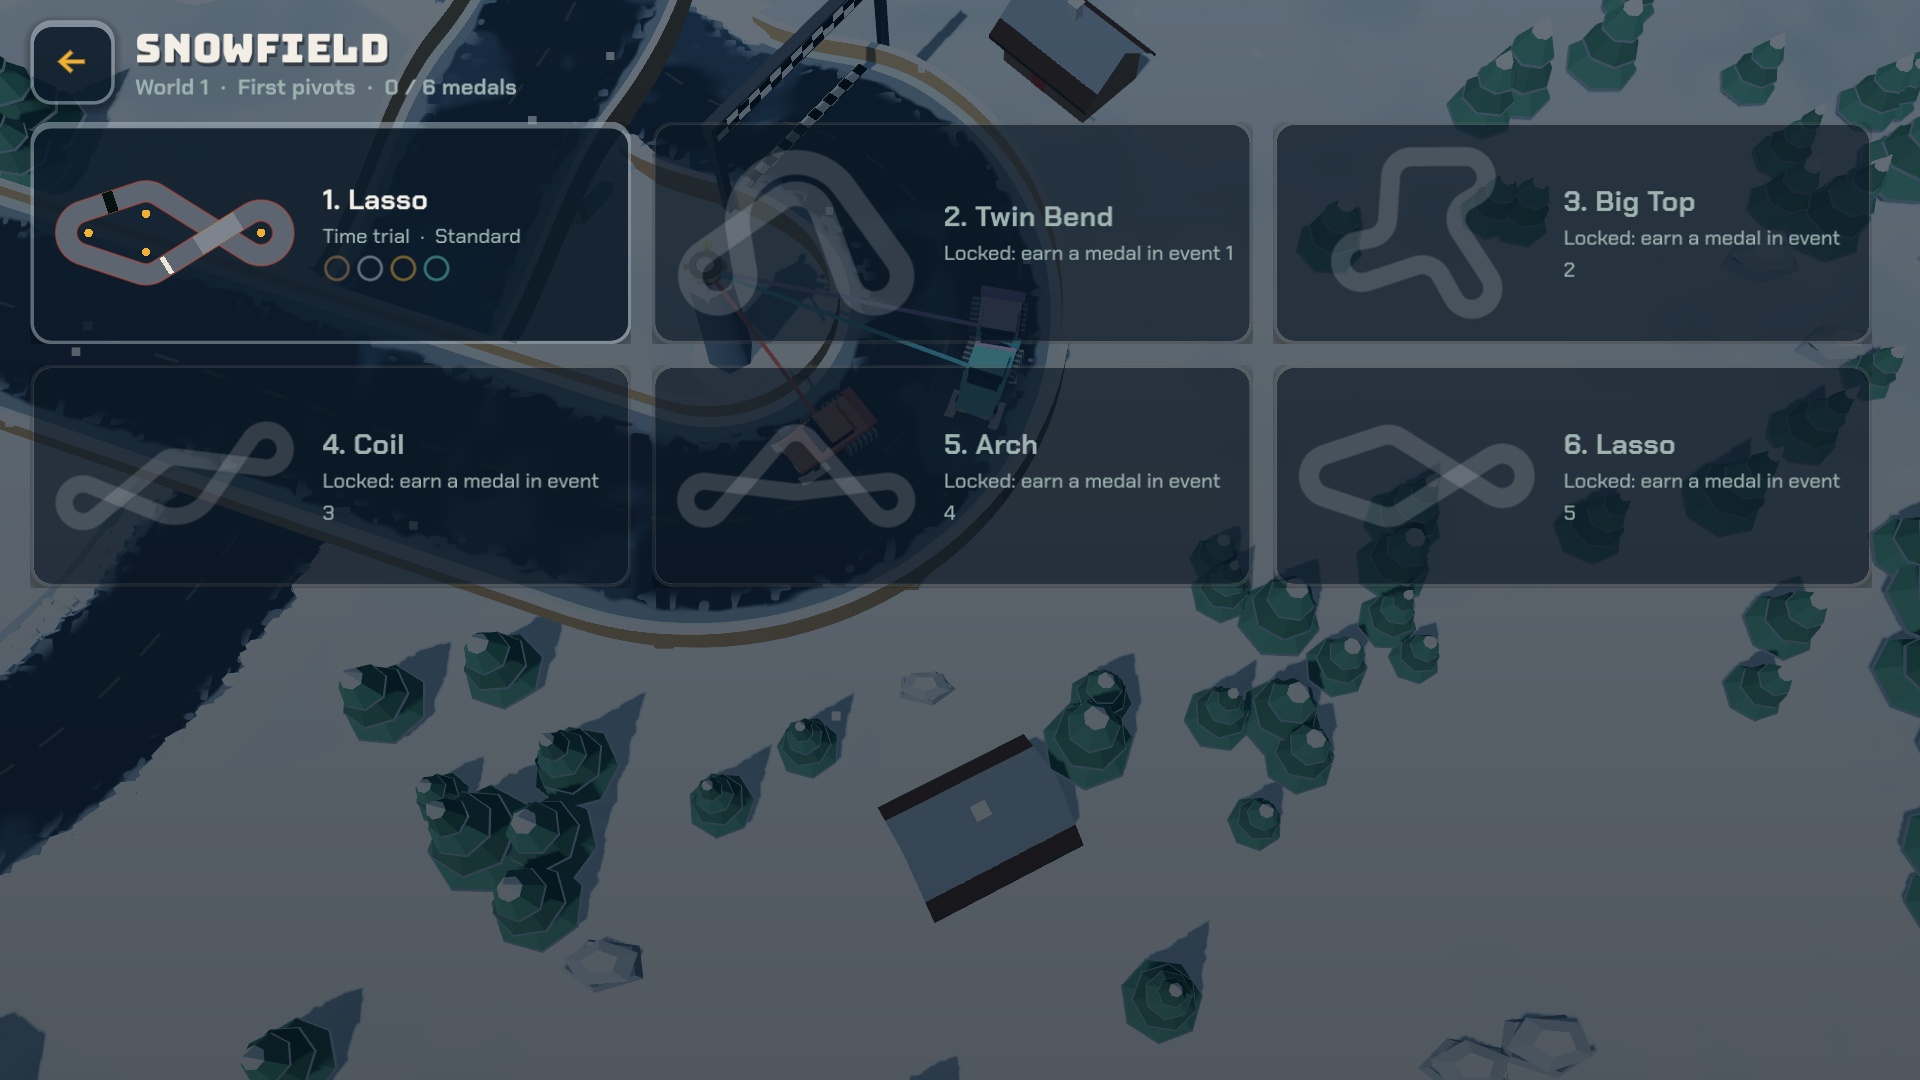
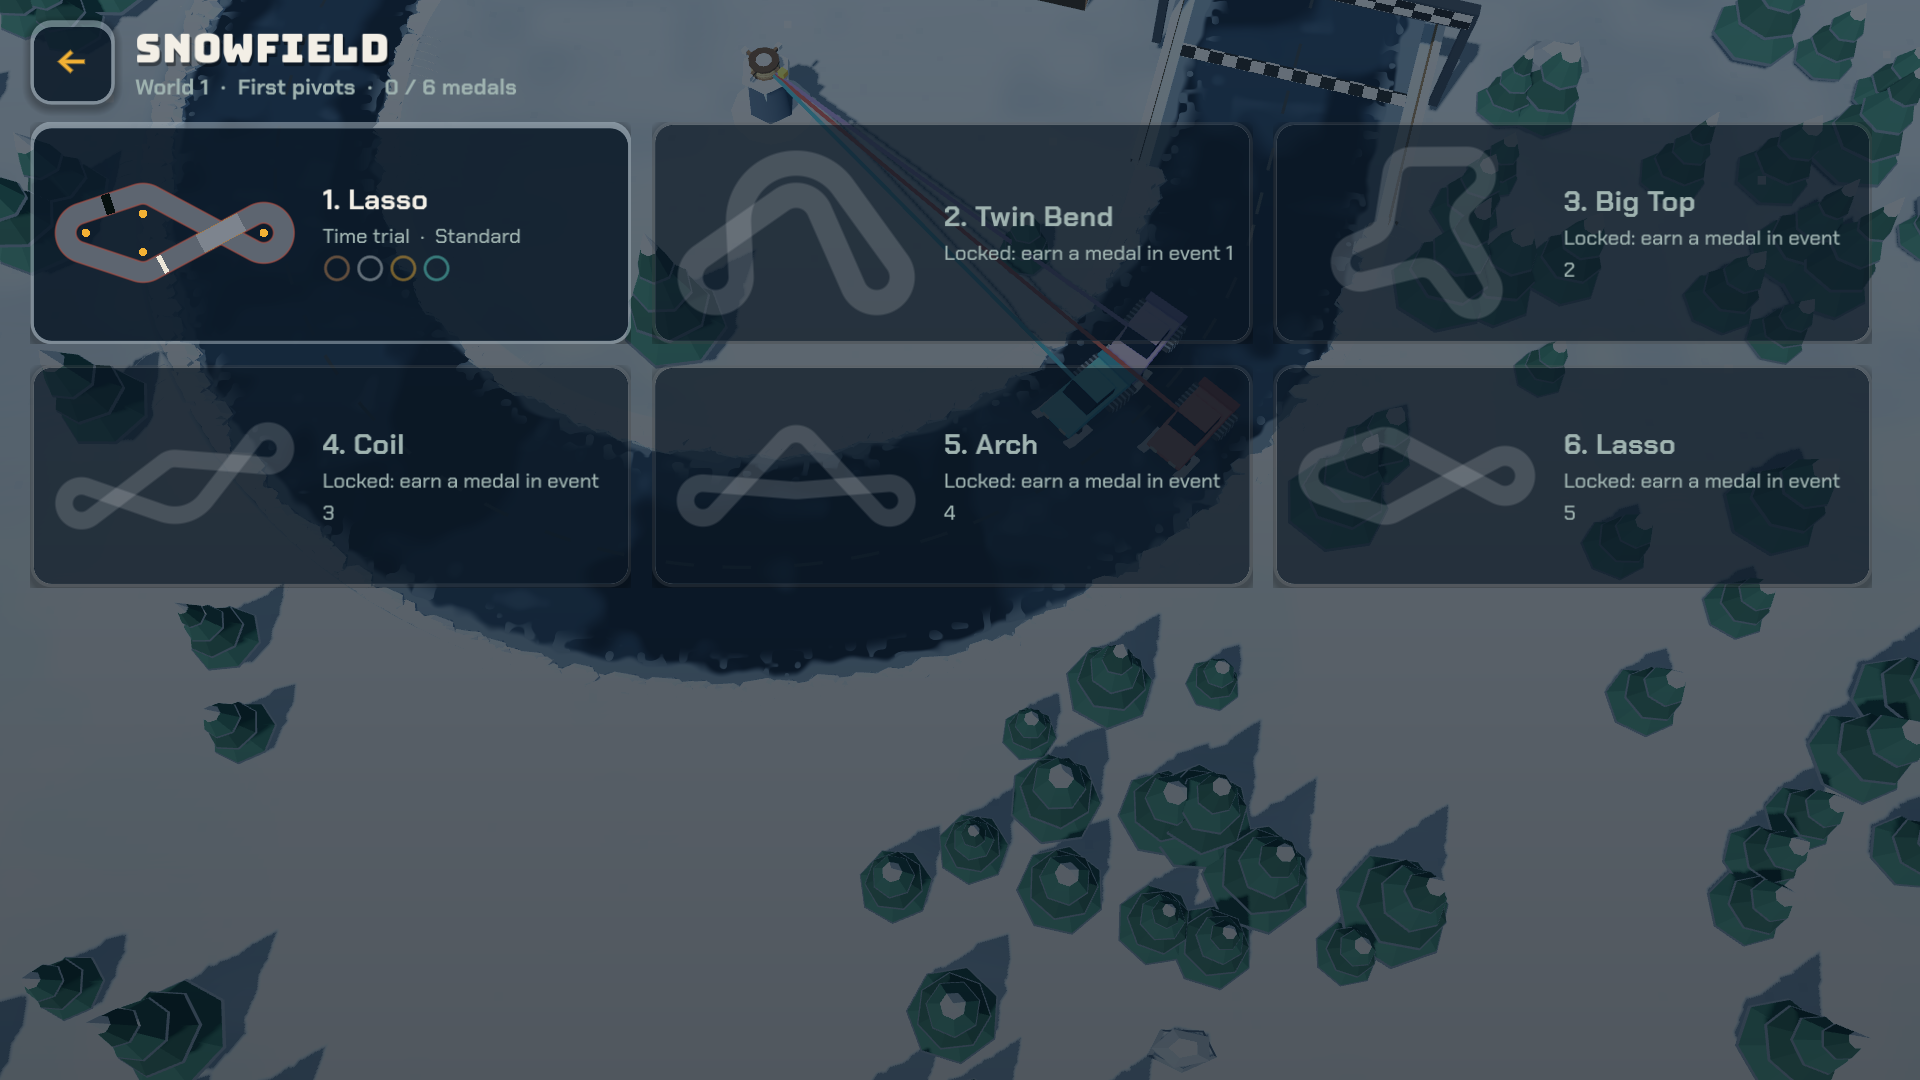
Re-capture Play Store and README screenshots from current main
Shows the wider tracks, seamless banks, compact centre-timer HUD and the
new car shapes. One shot per theme (snow race, forest time trial, sand
obstacles, rock collect), a 2-player race and the campaign world list.
store/README.md now lists the exact --demo commands to re-run them.

Claude-Session: https://claude.ai/code/session_01VxP4fpUj7RonUipZUqbZpJ

diff --git a/tether-rally/store/README.md b/tether-rally/store/README.md
@@ -7,3 +7,27 @@ Google Play listing assets for Tether Racing. Not part of the game (this folder 
 - `screenshots/`: 1920x1080 in-game screenshots (16:9, within Play's 2:1 limit), captured with the `--demo` autopilot.
 
 The Android launcher icons (legacy 192px plus adaptive foreground/background/monochrome 432px) are in `icons/` and set in the Android export preset.
+
+## Re-capturing the screenshots
+
+Each shot comes from the `--demo` autopilot (it saves the menus, then four race frames at
+`secs/4` intervals as `race_1..4.png`). `--fixed-fps 60` makes the race time match the demo
+seconds even on a slow software renderer (headless: wrap in `xvfb-run -a -s "-screen 0 1920x1080x24"`).
+
+```
+SHOT_DIR=/tmp/shots/a godot --path . --resolution 1920x1080 --rendering-driver opengl3 --fixed-fps 60 --disable-vsync -- --demo=<track>,<variant>,<secs>,<mode>,<players>,<theme>
+```
+
+| File | `--demo=` | Frame |
+| --- | --- | --- |
+| 01-race | `0,standard,24,race,1,snow` | race_1 |
+| 02-time-trial | `4,standard,24,trial,1,forest` | race_2 |
+| 03-obstacles | `1,obstacles,24,race,1,sand` | race_2 |
+| 04-collect | `10,collect,20,trial,1,rock` | race_2 |
+| 05-two-players | `8,standard,20,race,2,snow` | race_2 |
+| 06-campaign | any run | menu_world |
+
+README shots: `docs/race-obstacles.png` = 03 at 1280x720, `docs/pause.png` = the 03 run with
+`SHOT_PAUSE=1`, `docs/menu.png` = menu_home, `docs/portrait-collect.png` =
+`9,collect,20,trial,1,snow` at `--resolution 780x1386`, race_3, scaled to 390x693.
+The AI race shifts when gameplay or scenery code changes, so check the frames and retune.

diff --git a/tether-rally/README.md b/tether-rally/README.md
@@ -89,7 +89,7 @@ Captured from the current `main` web build.
 ![Main menu, with a live AI race behind it](docs/menu.png)
 
 <p>
-  <img src="docs/race-obstacles.png" alt="Race on Sidestep, Obstacles variant: four cars tethered to the same tower" width="68%">
+  <img src="docs/race-obstacles.png" alt="Race on Diamond Eight, Obstacles variant: three cars tethered to the same tower" width="68%">
   <img src="docs/portrait-collect.png" alt="Portrait mode: time trial on Starfish, Collect variant" width="30%">
 </p>
 
